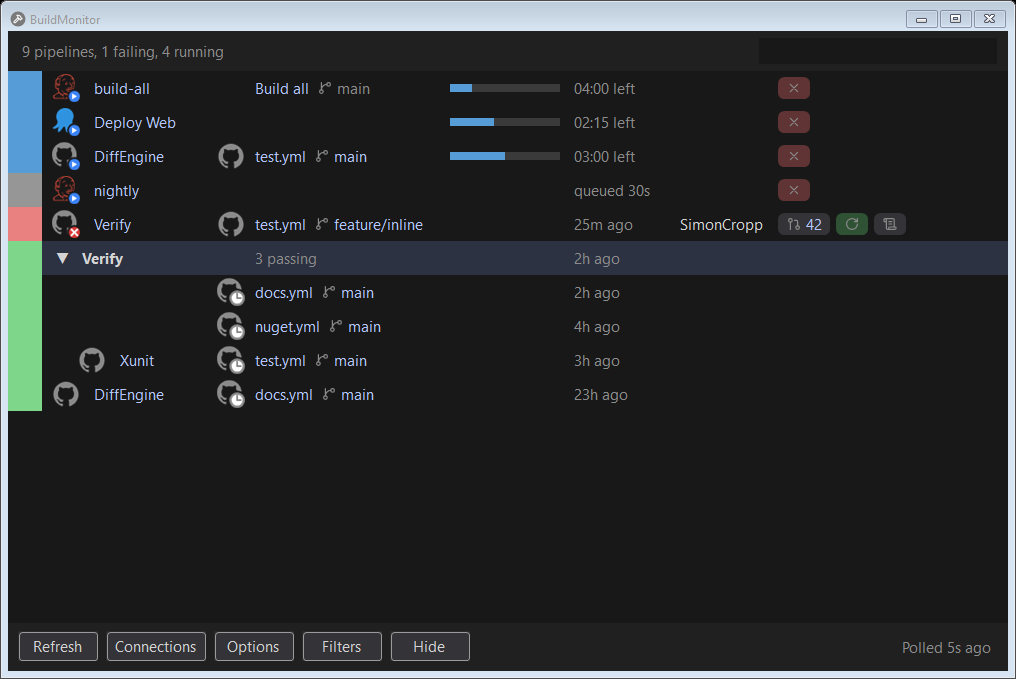
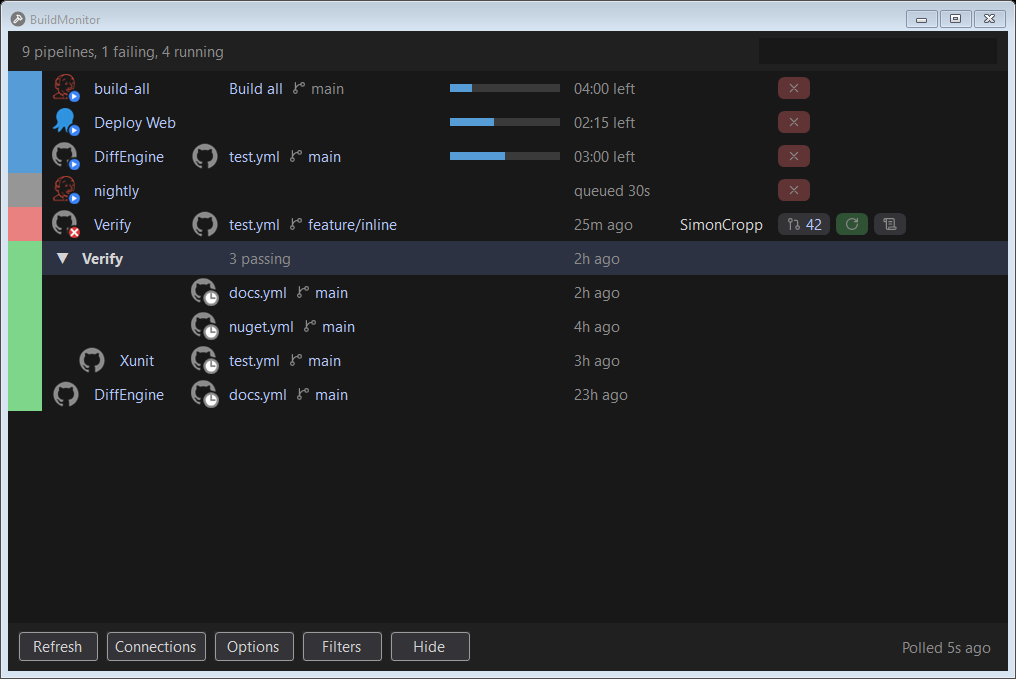
Size each name and detail as the kind of row that shows it
The page gave the names and details as text alone, so the Windows head sized every name as a member's, indented and with a mark, and every detail as carrying the branch's mark. The page now also says which names are a member's, which groups carry a mark and which details carry the branch's, and the columns are sized from each cell as it is drawn.

A build's name no longer gets an indent no row drew in, so on a page with a group the second cell starts 26 pixels further left: the Groups, Searched and PrefixGroup baselines. The new lists are additions to BuildsPage; the native heads and the text renderer read what they did.

diff --git a/src/BuildMonitor.Core/Session/ScreenBuilder.cs b/src/BuildMonitor.Core/Session/ScreenBuilder.cs
@@ -78,7 +78,7 @@ static class ScreenBuilder
         return new(
             Title,
             Page.Builds,
-            new(Header(state, counts), composed, top, rows.Length, selected, counts.Failing, counts.Running, columns.Names, columns.GroupNames, columns.Details, loading, state.Search, SearchTooltip, Empty(state, rows.Length, loading), columns.AuthorNames),
+            new(Header(state, counts), composed, top, rows.Length, selected, counts.Failing, counts.Running, columns.Names, columns.GroupNames, columns.Details, loading, state.Search, SearchTooltip, Empty(state, rows.Length, loading), columns.AuthorNames, columns.MemberNames, columns.MarkedGroupNames, columns.MarkedDetails),
             null,
             Buttons(state),
             status,
@@ -116,14 +116,18 @@ static class ScreenBuilder
         var authors = AuthorNames.Of(shown.Where(_ => _.Status == BuildStatus.Failed).Select(_ => _.Author));
         var siblings = SiblingPipelines(shown);
         var sized = Sized(state, pipelines, projected.Rows);
+        var (details, markedDetails) = Details(sized, siblings);
         var columns = new PageColumns(
             projected,
             authors,
             siblings,
             Names(sized, RowKind.Build),
             Names(sized, RowKind.Group),
-            Details(sized, siblings),
-            authors.Values.Distinct().ToList());
+            details,
+            authors.Values.Distinct().ToList(),
+            Names(sized, RowKind.Member),
+            Names(sized, RowKind.Group, marked: true),
+            markedDetails);
         lastColumns = columns;
         return columns;
     }
@@ -197,9 +201,10 @@ static class ScreenBuilder
     /// <summary>
     /// The distinct first cells a column of that kind is sized from. A member is measured with the
     /// builds rather than the groups: its cell is drawn like a build's, and under a prefix group it
-    /// holds a repository name the column has to have room for.
+    /// holds a repository name the column has to have room for. The members are also given on
+    /// their own, and the groups that carry a mark, for a head that sizes each cell as it is drawn.
     /// </summary>
-    static List<string> Names(ImmutableArray<Row> rows, RowKind kind)
+    static List<string> Names(ImmutableArray<Row> rows, RowKind kind, bool marked = false)
     {
         var names = new List<string>();
         var seen = new HashSet<string>().GetAlternateLookup<CharSpan>();
@@ -207,6 +212,12 @@ static class ScreenBuilder
         {
             if (row.Kind != kind &&
                 !(kind == RowKind.Build && row.Kind == RowKind.Member))
+            {
+                continue;
+            }
+
+            if (marked &&
+                GroupMarkOf(row).Length == 0)
             {
                 continue;
             }
@@ -375,23 +386,37 @@ static class ScreenBuilder
     static bool NamedAfterProject(Build build) =>
         BuildExtensions.ShortRepoName(build.RepoName.AsSpan()).Equals(build.PipelineName, StringComparison.OrdinalIgnoreCase);
 
-    static List<string> Details(ImmutableArray<Row> rows, IReadOnlyDictionary<(string ConnectionId, string RepoName), List<string>> siblings)
+    /// <summary>
+    /// The mark before a group's name: the host of the repository its members share, and nothing
+    /// for a group whose members do not share one. One rule for the composed row and for the
+    /// groups the column is sized as carrying a mark.
+    /// </summary>
+    static string GroupMarkOf(Row row) =>
+        RepoHosts.MarkOf(RowTooltips.Shared(row.Members));
+
+    /// <summary>
+    /// The distinct second cells, and those of them that carry the branch's mark, in one pass over
+    /// the rows.
+    /// </summary>
+    static (List<string> Details, List<string> Marked) Details(ImmutableArray<Row> rows, IReadOnlyDictionary<(string ConnectionId, string RepoName), List<string>> siblings)
     {
         var details = new List<string>();
+        var marked = new List<string>();
         var seen = new HashSet<string>().GetAlternateLookup<CharSpan>();
+        var seenMarked = new HashSet<string>();
         foreach (var row in rows)
         {
-            AddDetail(seen, details, row, siblings);
+            AddDetail(seen, details, seenMarked, marked, row, siblings);
         }
 
-        return details;
+        return (details, marked);
     }
 
     /// <summary>
     /// The text <see cref="DetailOf"/> gives the row, written on the stack rather than as runs that
-    /// are then joined.
+    /// are then joined. Marked where it names a branch, which is the run DetailOf gives the mark.
     /// </summary>
-    static void AddDetail(HashSet<string>.AlternateLookup<CharSpan> seen, List<string> details, Row row, IReadOnlyDictionary<(string ConnectionId, string RepoName), List<string>> siblings)
+    static void AddDetail(HashSet<string>.AlternateLookup<CharSpan> seen, List<string> details, HashSet<string> seenMarked, List<string> marked, Row row, IReadOnlyDictionary<(string ConnectionId, string RepoName), List<string>> siblings)
     {
         if (row.Build is null)
         {
@@ -405,6 +430,13 @@ static class ScreenBuilder
         var text = length <= 256 ? stackalloc char[length] : new char[length];
         text.TryWrite($"{pipeline}{separator}{branch}", out _);
         AddDistinct(seen, details, text);
+        // The string already made for the text, rather than another of the same.
+        if (branch.Length > 0 &&
+            seen.TryGetValue(text, out var added) &&
+            seenMarked.Add(added))
+        {
+            marked.Add(added);
+        }
     }
 
     /// <summary>
@@ -697,7 +729,7 @@ static class ScreenBuilder
             // A member's own first cell is blank, so this row is the only place the repository is
             // named. Without the link a group would hide the repository of every row inside it.
             repo is null ? ChipKind.None : ChipKind.Repo,
-            RepoHosts.MarkOf(repo),
+            GroupMarkOf(row),
             ChipKind.None,
             DetailOf(row, siblings),
             "",

diff --git a/src/BuildMonitor.Windows/RowsCanvas.cs b/src/BuildMonitor.Windows/RowsCanvas.cs
@@ -273,6 +273,9 @@ sealed class RowsCanvas : Control
         Same(previous.GroupNames, next.GroupNames) &&
         Same(previous.Details, next.Details) &&
         Same(previous.Authors ?? [], next.Authors ?? []) &&
+        Same(previous.MemberNames ?? [], next.MemberNames ?? []) &&
+        Same(previous.MarkedGroupNames ?? [], next.MarkedGroupNames ?? []) &&
+        Same(previous.MarkedDetails ?? [], next.MarkedDetails ?? []) &&
         Marks(previous) == Marks(next);
 
     static bool Same(IReadOnlyList<string> previous, IReadOnlyList<string> next) =>
@@ -499,25 +502,29 @@ sealed class RowsCanvas : Control
         // After the status square, a gap after each of the name, detail, timing and chips, and the
         // author and its gap when shown.
         var available = Width - RowHeight - TimingWidth() - 5 * gap - (authorWidth > 0 ? authorWidth + gap : 0);
-        // The widest cell DrawName can make of any name, from the parts it draws. The page does not
-        // say which names sit under a group or which have a mark, so each is taken as a member
-        // with one wherever the page has a group at all, which also keeps the column from shifting
-        // as a group is opened.
-        var nameKind = builds.GroupNames.Count > 0 ? RowKind.Member : RowKind.Build;
+        // The widest cell DrawName makes of any name, from the parts it draws, each name as the
+        // kind of row that shows it: every name as a build's, those that are a member's indented
+        // as well, every group behind its arrow, and those with a mark with its width as well. A
+        // member's blank cell draws nothing, so it wants no room. Taking every name as a member
+        // with a mark gave the column an indent's width that no row drew in.
         var nameWanted = builds.Names
-            .Select(_ => NameCell(_, nameKind, true, markWidth))
-            .Concat(builds.GroupNames.Select(_ => NameCell(_, RowKind.Group, true, markWidth)))
+            .Select(_ => NameCell(_, RowKind.Build, true, markWidth))
+            .Concat((builds.MemberNames ?? []).Where(_ => _.Length > 0).Select(_ => NameCell(_, RowKind.Member, true, markWidth)))
+            .Concat(builds.GroupNames.Select(_ => NameCell(_, RowKind.Group, false, markWidth)))
+            .Concat((builds.MarkedGroupNames ?? []).Select(_ => NameCell(_, RowKind.Group, true, markWidth)))
             .Select(_ => _.Indent + _.Mark + _.Text)
             .DefaultIfEmpty()
             .Max();
-        // Where DrawDetail ends the widest detail, by the offsets it draws at. Forty characters at
-        // most: past that a long pipeline or branch is cut short rather than pushing every row's
-        // chips into the drop down. The details are text alone, without saying which carry the
-        // branch's mark, so each is taken to once any row draws one.
-        var marks = builds.Rows.Any(_ => _.Detail.Any(_ => _.Icon.Length > 0)) ? 1 : 0;
-        var detailWanted = iconWidth + Math.Min(
-            builds.Details.Select(_ => DetailOffset(_, marks)).DefaultIfEmpty().Max(),
-            DetailOffset(new('0', 40), marks));
+        // Where DrawDetail ends the widest detail, by the offsets it draws at: every detail as
+        // text alone, and those that carry the branch's mark with it. Forty characters at most:
+        // past that a long pipeline or branch is cut short rather than pushing every row's chips
+        // into the drop down.
+        var longest = new string('0', 40);
+        var detailWanted = iconWidth + builds.Details
+            .Select(_ => Math.Min(DetailOffset(_, 0), DetailOffset(longest, 0)))
+            .Concat((builds.MarkedDetails ?? []).Select(_ => Math.Min(DetailOffset(_, 1), DetailOffset(longest, 1))))
+            .DefaultIfEmpty()
+            .Max();
         var widest = WidestChips();
         var bar = LogicalToDeviceUnits(barLength);
         var barWidth = available - bar - gap - nameWanted - detailWanted >= widest ? bar : 0;

diff --git a/src/BuildMonitor.Windows.Tests/RowsCanvasTests.cs b/src/BuildMonitor.Windows.Tests/RowsCanvasTests.cs
@@ -292,6 +292,24 @@ public class RowsCanvasTests
         await Assert.That(LinkWidth(canvas, group, ChipKind.Repo)).IsEqualTo(mark + text);
     }
 
+    /// <summary>
+    /// Only a member is drawn indented, so a group on the page moves no build's second cell: every
+    /// name sized as a member's, the column was an indent wider than anything drawn in it wherever
+    /// a build's name was the widest.
+    /// </summary>
+    [Test]
+    public async Task AGroupOnThePageDoesNotIndentTheBuilds()
+    {
+        const string key = "gh/Verify/test.yml/feature/inline";
+        var alone = Fixtures.WithBuilds();
+        var grouped = Fixtures.WithTwoFailures();
+        using var aloneCanvas = Drawn(1000, alone);
+        using var groupedCanvas = Drawn(1000, grouped);
+        var expected = LinkSpan(aloneCanvas, Fixtures.RowOf(alone, _ => _.Build?.Key == key), ChipKind.Branch).Left;
+        var actual = LinkSpan(groupedCanvas, Fixtures.RowOf(grouped, _ => _.Build?.Key == key), ChipKind.Branch).Left;
+        await Assert.That(actual).IsEqualTo(expected);
+    }
+
     static Build Passing(string name, string workflow, string run) =>
         Fixtures.Build(
             Fixtures.GitHub.Id,

diff --git a/src/BuildMonitor.Core/Model/BuildsPage.cs b/src/BuildMonitor.Core/Model/BuildsPage.cs
@@ -30,4 +30,13 @@ record BuildsPage(
     string Empty,
     // Every distinct author shown across all failed builds, to size the author column from. Null or
     // empty when no failed build names anyone, and then the column is not drawn.
-    IReadOnlyList<string>? Authors = null);
+    IReadOnlyList<string>? Authors = null,
+    // Which of the texts above are drawn wider than the rest, so a head that sizes a column from
+    // what each cell holds does not give every cell the room of the widest kind: a build's name
+    // was sized with a member's indent, and "2 passing" with a branch's mark. Each is a subset, of
+    // Names, GroupNames and Details in turn: the names that are a member's, drawn indented under
+    // its group, the groups whose row carries the host's mark, and the details that carry the
+    // branch's mark. Null where a head is given no rows.
+    IReadOnlyList<string>? MemberNames = null,
+    IReadOnlyList<string>? MarkedGroupNames = null,
+    IReadOnlyList<string>? MarkedDetails = null);

diff --git a/src/BuildMonitor.Core/Session/PageColumns.cs b/src/BuildMonitor.Core/Session/PageColumns.cs
@@ -16,4 +16,7 @@ sealed record PageColumns(
     List<string> Names,
     List<string> GroupNames,
     List<string> Details,
-    List<string> AuthorNames);
+    List<string> AuthorNames,
+    List<string> MemberNames,
+    List<string> MarkedGroupNames,
+    List<string> MarkedDetails);
